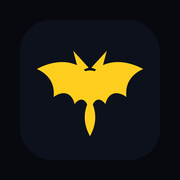
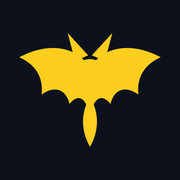
Add files via upload

Changed region(s): [[0.1111, 0.1667, 0.8889, 0.8056]]

diff --git a/docs/index.html b/docs/index.html
@@ -88,6 +88,7 @@ button{font:inherit;color:inherit;background:none;border:0;padding:0;cursor:poin
 :focus-visible{outline:2px solid var(--signal);outline-offset:2px;border-radius:4px;}
 
 #app{display:flex;flex-direction:column;height:100svh;height:100dvh;overflow:hidden;overscroll-behavior:none;}
+@media (display-mode: standalone){#app{height:100vh;}}
 #view,.panel{overflow-anchor:none;}
 header{position:sticky;top:0;z-index:30;background:var(--hdr);-webkit-backdrop-filter:saturate(180%) blur(14px);backdrop-filter:saturate(180%) blur(14px);border-bottom:1px solid var(--line);padding:calc(env(safe-area-inset-top) + 12px) 18px 12px;}
 .hrow{display:flex;align-items:center;gap:14px;max-width:760px;margin:0 auto;}
@@ -111,12 +112,12 @@ header{position:sticky;top:0;z-index:30;background:var(--hdr);-webkit-backdrop-f
 .piesub{font-family:var(--mono);font-size:8.5px;color:var(--dim);margin:12px 0 0;letter-spacing:.05em;text-align:center;line-height:1.5;}
 .ring svg{transform:rotate(-90deg);display:block;}
 .ring b{position:absolute;inset:0;display:grid;place-items:center;font-family:var(--mono);font-size:11px;font-weight:600;}
-main{flex:1;min-height:0;overflow-y:auto;overscroll-behavior:none;padding:18px 18px calc(var(--tab-h) + env(safe-area-inset-bottom) + 28px);max-width:760px;margin:0 auto;width:100%;}
+main{flex:1;min-height:0;overflow-y:auto;overscroll-behavior:none;padding:18px 18px 28px;max-width:760px;margin:0 auto;width:100%;}
 main.sw{display:flex;overflow-y:hidden;overflow-x:auto;padding:0;max-width:none;scroll-snap-type:x mandatory;overscroll-behavior-x:contain;scrollbar-width:none;}
 main.sw::-webkit-scrollbar{display:none;}
 .panel{flex:0 0 100%;min-width:100%;overflow-y:auto;overscroll-behavior:none;scroll-snap-align:start;scroll-snap-stop:always;}
-.pcol{padding:18px 18px calc(var(--tab-h) + env(safe-area-inset-bottom) + 28px);max-width:760px;margin:0 auto;width:100%;}
-#tabs{position:fixed;left:0;right:0;bottom:0;z-index:40;display:flex;background:var(--tabbg);-webkit-backdrop-filter:blur(16px);backdrop-filter:blur(16px);border-top:1px solid var(--line);padding-bottom:env(safe-area-inset-bottom);}
+.pcol{padding:18px 18px 28px;max-width:760px;margin:0 auto;width:100%;}
+#tabs{flex:none;z-index:40;display:flex;background:var(--tabbg);-webkit-backdrop-filter:blur(16px);backdrop-filter:blur(16px);border-top:1px solid var(--line);padding-bottom:env(safe-area-inset-bottom);}
 #tabs button{flex:1;height:var(--tab-h);display:flex;flex-direction:column;align-items:center;justify-content:center;gap:5px;font-family:var(--mono);font-size:9.5px;letter-spacing:.12em;text-transform:uppercase;color:var(--dim);transition:color .15s;}
 #tabs button svg{display:block;width:20px;height:20px;fill:none;stroke:currentColor;stroke-width:1.7;stroke-linecap:round;}
 #tabs button[aria-current]{color:var(--signal);}

diff --git a/qa/guards.js b/qa/guards.js
@@ -4007,6 +4007,35 @@ if(!/function legendBlock/.test(HTML) ||
          "viewport — reaching the end of the universe chips and pulling " +
          "further would swipe the whole tab away under the reader's finger");
   }
+  /* The tab bar is the frame's third member, IN THE FLOW — not fixed. It
+     was position:fixed from 1.x through the first cut of 4.0.0, and the
+     owner's installed-app screenshot (16 Aug) showed it floating a toolbar's
+     height above the home indicator: iOS standalone can resolve the fixed
+     anchor (and svh/dvh) against browser-chrome metrics for chrome that is
+     not there. A flex child at the bottom of a clipped, height-locked #app
+     needs no anchor at all — it ends where #app ends. The standalone media
+     override pins #app to 100vh for the same report: in standalone there is
+     no dynamic chrome, so vh is the one viewport unit with nothing to get
+     wrong. Content no longer passes under the bar, so the panels' runway
+     padding is a plain 28px — the tab-h + safe-area arithmetic left with
+     the overlap. */
+  var tabsCss = (HTML.match(/#tabs\{[^}]*\}/) || [""])[0];
+  if(/position:fixed/.test(tabsCss) || !/flex:none/.test(tabsCss)){
+    fail("#tabs is fixed again (or lost flex:none) — the bar is the frame's " +
+         "third flex member since 4.0.0, and a fixed bar re-inherits the iOS " +
+         "standalone anchor bug that had it floating above the home " +
+         "indicator in the owner's 16 Aug screenshot");
+  }
+  if(!/padding-bottom:env\(safe-area-inset-bottom\)/.test(tabsCss)){
+    fail("#tabs no longer pads for the bottom safe area — on a notched " +
+         "phone the Progress button sits under the home indicator");
+  }
+  if(HTML.indexOf("@media (display-mode: standalone){#app{height:100vh;}}") < 0){
+    fail("the standalone height override is gone — installed, #app must be " +
+         "100vh: there is no dynamic chrome in standalone, and svh/dvh have " +
+         "been seen resolving against Safari's browser metrics there, which " +
+         "is the floating-footer report this rule closed");
+  }
   /* The window is not the scroller any more, so a window scroll call is a
      call to the element that no longer moves — a silent no-op in every
      browser, and the exact bug this migration invites for as long as muscle

diff --git a/qa/make-favicon.py b/qa/make-favicon.py
@@ -76,15 +76,51 @@ for px in (16, 32, 48):
 
 # apple-touch-icon: 180×180, opaque. iOS composites a transparent PNG onto
 # black, so the app's own ink ground (#08090F — manifest background_color)
-# goes behind the bat here, with the glyph at 78% so the silhouette is not
-# wall-to-wall on a rounded-corner tile.
-INK = (8, 9, 15, 255)
-tile = Image.new("RGBA", (180, 180), INK)
-glyph = src.resize((140, 140), Image.LANCZOS)
-tile.paste(glyph, ((180 - 140) // 2, (180 - 140) // 2), glyph)
+# goes behind the bat here.
+#
+# 4.0.0: SCALE THE INK, NOT THE CANVAS. The first cut pasted the 512 canvas
+# at 78% and trusted its proportions — but the bat is a wide, short glyph
+# sitting on a square with its own margins, so the visible silhouette landed
+# at ~56% × 42% of the tile and the installed icon read as a small mark
+# floating on a dark square (the owner's 16 Aug report, next to an X icon
+# that fills its tile). The glyph's real ink bounding box is measured and
+# THAT is scaled to 80% of the tile's width, centred; the canvas's margins
+# no longer get a vote.
+# The ground is SAMPLED from the source tile rather than declared: the crop
+# below carries icon.png's own dark ground with it, and a tile filled with
+# any other dark reads as a faint rectangle around the bat (seen in the
+# first preview of this block — two near-blacks are still two blacks).
+tile_ground = Image.open(SRC).convert("RGBA").getpixel((40, 40))
+tile = Image.new("RGBA", (180, 180), tile_ground)
+# The bbox is found by COLOUR, not by alpha: icon.png is not a bat on
+# transparency, it is an opaque dark tile with rounded corners and the bat
+# inside it — 95% of its pixels carry alpha, so getbbox() answers the TILE
+# and the first 4.0.0 cut of this block scaled the tile's margins along
+# with the bat. The bat is the signal-yellow ink; find that.
+w, h = src.size
+xs, ys = [], []
+for i, p in enumerate(src.convert("RGBA").getdata()):
+    if p[3] > 64 and p[0] > 150 and p[1] > 100 and p[2] < 120:
+        xs.append(i % w)
+        ys.append(i // w)
+if not xs:
+    sys.exit("no signal-yellow ink found in docs/icon.png — the bat has "
+             "changed colour and this crop needs re-aiming, not guessing")
+PAD = 4
+ink_box = (max(0, min(xs) - PAD), max(0, min(ys) - PAD),
+           min(w, max(xs) + 1 + PAD), min(h, max(ys) + 1 + PAD))
+bat = src.crop(ink_box)
+tw = 144  # 80% of 180
+th = max(1, round(bat.size[1] * tw / bat.size[0]))
+if th > 144:  # a taller-than-wide source would overflow; fit the long side
+    th = 144
+    tw = max(1, round(bat.size[0] * th / bat.size[1]))
+glyph = bat.resize((tw, th), Image.LANCZOS)
+tile.paste(glyph, ((180 - tw) // 2, (180 - th) // 2), glyph)
 atp = os.path.join(ROOT, "docs", "apple-touch-icon.png")
 tile.convert("RGB").save(atp, format="PNG", optimize=True)
-print("docs/apple-touch-icon.png — %d bytes" % os.path.getsize(atp))
+print("docs/apple-touch-icon.png — %d bytes, glyph %dx%d of 180 (%.0f%% wide)"
+      % (os.path.getsize(atp), tw, th, 100.0 * tw / 180))
 
 # mstile: 144×144, transparent — Windows paints msapplication-TileColor
 # behind it, and that meta pins the same surface the theme-color declares.
